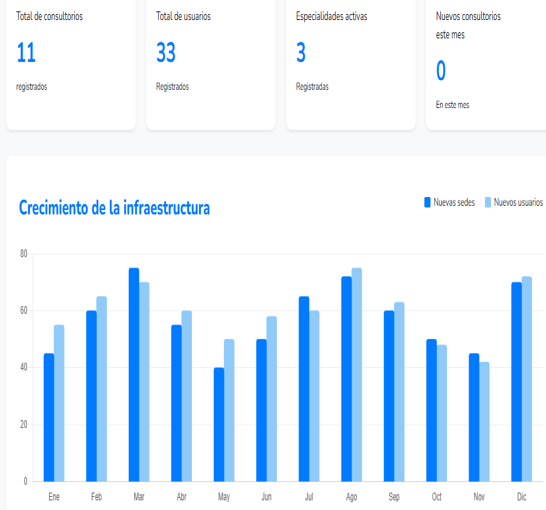
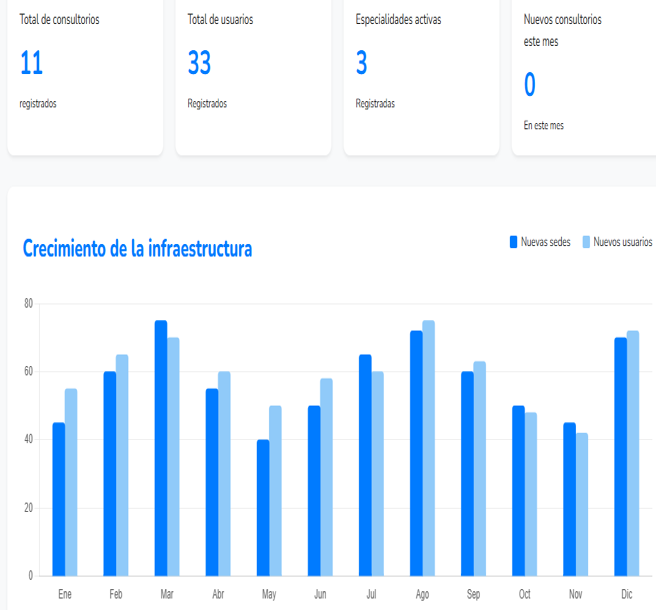
Update landing page images and fix footer layout

diff --git a/public/assets/website/css/landing.css b/public/assets/website/css/landing.css
@@ -214,13 +214,16 @@ main {
 
 .cont-fun-1 {
     padding-right: 0;
-    height: 70vh;
-    margin-bottom: 16px;
+    min-height: 650px;
+    margin-bottom: 60px;
+    overflow: hidden;
+    border-radius: 40px;
 }
 
 .cont-info-1 {
-    margin-top: 130px;
+    margin-top: 90px;
     padding-left: 40px;
+    padding-right: 20px;
 }
 
 .cont-info-1 h5 {
@@ -233,24 +236,39 @@ main {
 }
 
 .cont-info-1 h5,
-h2,
-p {
+.cont-info-1 h2,
+.cont-info-1 p {
     color: var(--gris-proyecto);
 }
 
 .cont-foto-1 {
-    margin-top: 40px;
+    margin-top: 70px;
     display: flex;
     justify-content: center;
+    align-items: flex-start;
+}
+
+.cont-foto-1 img {
+    width: 100%;
+    max-width: 720px;
+    height: auto;
+    display: block;
 }
 
 .cont-fun-2 {
     padding: 30px;
+    height: 100%;
+}
+
+.cont-fun-2 .row,
+.cont-fun-3 .row {
+    height: 100%;
 }
 
 .cont-info-2 {
-    padding-right: 200px;
-    margin-top: 56px;
+    display: flex;
+    flex-direction: column;
+    justify-content: flex-start;
 }
 
 .cont-info-2 h5,
@@ -270,10 +288,13 @@ p {
 
 .cont-fun-3 {
     padding: 30px;
+    height: 100%;
 }
 
 .cont-info-3 {
-    margin-top: 56px;
+    display: flex;
+    flex-direction: column;
+    justify-content: flex-start;
 }
 
 .cont-info-3 h5,
@@ -292,7 +313,10 @@ p {
 }
 
 #beneficios {
-    padding: 120px;
+    padding-top: 60px;
+    padding-bottom: 40px;
+    padding-left: 120px;
+    padding-right: 120px;
 }
 
 .titulo-beneficios {
@@ -300,7 +324,7 @@ p {
 }
 
 .fila-beneficios {
-    margin-bottom: 56px;
+    margin-bottom: 30px;
 }
 
 .fila-beneficios .cont-foto {
@@ -310,7 +334,7 @@ p {
 .cont-1,
 .cont-2,
 .cont-3 {
-    height: 400px;
+    height: 320px;
 }
 
 .cont-1 img {
@@ -344,9 +368,11 @@ p {
 
 .cont-botones-carrusel {
     display: flex;
-    justify-content: end;
-    align-items: baseline;
+    justify-content: center;
+    align-items: center;
     gap: 16px;
+    height: 100%;
+    margin-top: 60px;
 }
 
 .cont-botones-carrusel .boton-carrusel {
@@ -395,6 +421,22 @@ p {
 .cont-plan .plan {
     border-radius: 20px;
     padding: 40px;
+    height: 100%;
+    display: flex;
+    flex-direction: column;
+}
+
+.fila-planes .cont-plan {
+    display: flex;
+}
+
+.plan a {
+    margin-top: auto;
+}
+
+.plan ul,
+.plan .lista-beneficios {
+    margin-top: 30px;
 }
 
 .plan .cont-popular {
@@ -550,16 +592,17 @@ p {
 }
 
 footer {
-    padding: 90px;
+    padding: 50px 90px;
     background: var(--color-secundario);
 }
 
 footer .fila-footer {
-    margin-top: 199px;
+    margin-top: 10px;
 }
 
+
 .cont-info-footer {
-    margin-top: auto;
+    margin-top: 30px;
 }
 
 .cont-redes-sociales {
@@ -856,5 +899,30 @@ footer .fila-footer {
     .cont-info-footer p {
         text-align: left !important;
         font-size: 13px;
+    }
+
+    @media screen and (max-width: 767px) {
+
+        .cont-fun-1 {
+            min-height: auto;
+            margin-bottom: 20px;
+        }
+    
+        .cont-info-1 {
+            margin-top: 50px;
+            padding-left: 30px;
+            padding-right: 30px;
+        }
+    
+        .cont-foto-1 {
+            margin-top: -30px;
+            justify-content: center;
+            padding-right: 0;
+        }
+    
+        .cont-foto-1 img {
+            width: 90%;
+            max-width: 100%;
+        }
     }
 }

diff --git a/app/views/website/index.php b/app/views/website/index.php
@@ -303,43 +303,104 @@ $plan = traerId();
         </section>
         <section id="precios">
             <div class="container">
-                <h2 class="text-white text-center titulo-precios" data-aos="fade-up">Planes y precios</h2>
-                <p class="text-white text-center parrafo-planes" data-aos="fade-up" data-aos-delay="100">Planes simples y transparentes diseñados para el
-                    crecimiento de tu consultorio.</p>
-                <div class="row fila-planes">
-                    <div class="col-md-4 cont-plan  data-aos=" fade-up" data-aos-delay="100"">
-                        <div class=" bg-white plan">
+                <h2 class="text-white text-center titulo-precios" data-aos="fade-up">
+                    Planes y precios
+                </h2>
+
+        ```
+            <p class="text-white text-center parrafo-planes" data-aos="fade-up" data-aos-delay="100">
+                Planes simples y transparentes diseñados para el crecimiento de tu consultorio.
+            </p>
+
+            <div class="row fila-planes">
+
+                <!-- PLAN SEMILLA -->
+                <div class="col-md-4 cont-plan d-flex" data-aos="fade-up" data-aos-delay="100">
+                    <div class="bg-white plan w-100">
                         <h3>Plan semilla</h3>
+
                         <h2>Gratis</h2>
-                        <p class="p-descriptivo-plan">Perfecto para comenzar y probar la plataforma</p>
-                        <a href="registroAdmin" class="btn btn-primary boton-plan">Crear cuenta gratis</a>
-                        <p><i class="bi bi-check2 chulo"></i>Hasta 30 citas mensuales</p>
+
+                        <p class="p-descriptivo-plan">
+                            Perfecto para comenzar y probar la plataforma
+                        </p>
+
+                        <a href="registroAdmin" class="btn btn-primary boton-plan">
+                            Crear cuenta gratis
+                        </a>
+
+                        <div class="mt-auto">
+                            <p>
+                                <i class="bi bi-check2 chulo"></i>
+                                Hasta 30 citas mensuales
+                            </p>
+                        </div>
                     </div>
                 </div>
-                <div class="col-md-4 cont-plan  data-aos=" fade-up" data-aos-delay="200"">
-                        <div class=" bg-white plan">
-                    <div class="cont-popular">
-                        <h3>Plan pro</h3>
-                        <span>El más popular</span>
+
+                <!-- PLAN PRO -->
+                <div class="col-md-4 cont-plan d-flex" data-aos="fade-up" data-aos-delay="200">
+                    <div class="bg-white plan w-100">
+
+                        <div class="cont-popular">
+                            <h3>Plan pro</h3>
+                            <span>El más popular</span>
+                        </div>
+
+                        <h2>$50,000/ mensual</h2>
+
+                        <p class="p-descriptivo-plan">
+                            Ideal para consultorios en crecimiento
+                        </p>
+
+                        <a href="registroAdmin?plan=<?= $plan[1]['id'] ?>"
+                            class="btn btn-primary boton-plan">
+                            Comprar plan pro
+                        </a>
+
+                        <div class="mt-auto">
+                            <p>
+                                <i class="bi bi-check2 chulo"></i>
+                                Hasta 300 citas mensuales
+                            </p>
+                        </div>
+
                     </div>
-                    <h2>$50,000/ mensual</h2>
-                    <p class="p-descriptivo-plan">Ideal para consultorios en crecimiento</p>
-                    <a href="registroAdmin?plan=<?= $plan[1]['id'] ?>" class="btn btn-primary boton-plan">Comprar plan pro</a>
-                    <p><i class="bi bi-check2 chulo"></i>Hasta 300 citas mensuales</p>
                 </div>
-            </div>
-            <div class="col-md-4 cont-plan" data-aos="fade-up" data-aos-delay="300">
-                <div class="bg-white plan">
-                    <h3>Plan premium</h3>
-                    <h2>$150,000/ mensual</h2>
-                    <p class="p-descriptivo-plan">Para grandes redes de consultorios médicos</p>
-                    <a href="registroAdmin?plan=<?= $plan[2]['id'] ?>" class="btn btn-primary boton-plan">Comprar plan premium</a>
-                    <p><i class="bi bi-check2 chulo"></i>Hasta 3,000 citas mensuales</p>
+
+                <!-- PLAN PREMIUM -->
+                <div class="col-md-4 cont-plan d-flex" data-aos="fade-up" data-aos-delay="300">
+                    <div class="bg-white plan w-100">
+
+                        <h3>Plan premium</h3>
+
+                        <h2>$150,000/ mensual</h2>
+
+                        <p class="p-descriptivo-plan">
+                            Para grandes redes de consultorios médicos
+                        </p>
+
+                        <a href="registroAdmin?plan=<?= $plan[2]['id'] ?>"
+                            class="btn btn-primary boton-plan">
+                            Comprar plan premium
+                        </a>
+
+                        <div class="mt-auto">
+                            <p>
+                                <i class="bi bi-check2 chulo"></i>
+                                Hasta 3,000 citas mensuales
+                            </p>
+                        </div>
+
+                    </div>
                 </div>
+
             </div>
-            </div>
-            </div>
+        </div>
+        ```
+
         </section>
+
         <section id="preguntas">
             <div class="container">
                 <h2 class="text-white text-center titulo-preguntas" data-aos="fade-up">Preguntas frecuentes</h2>